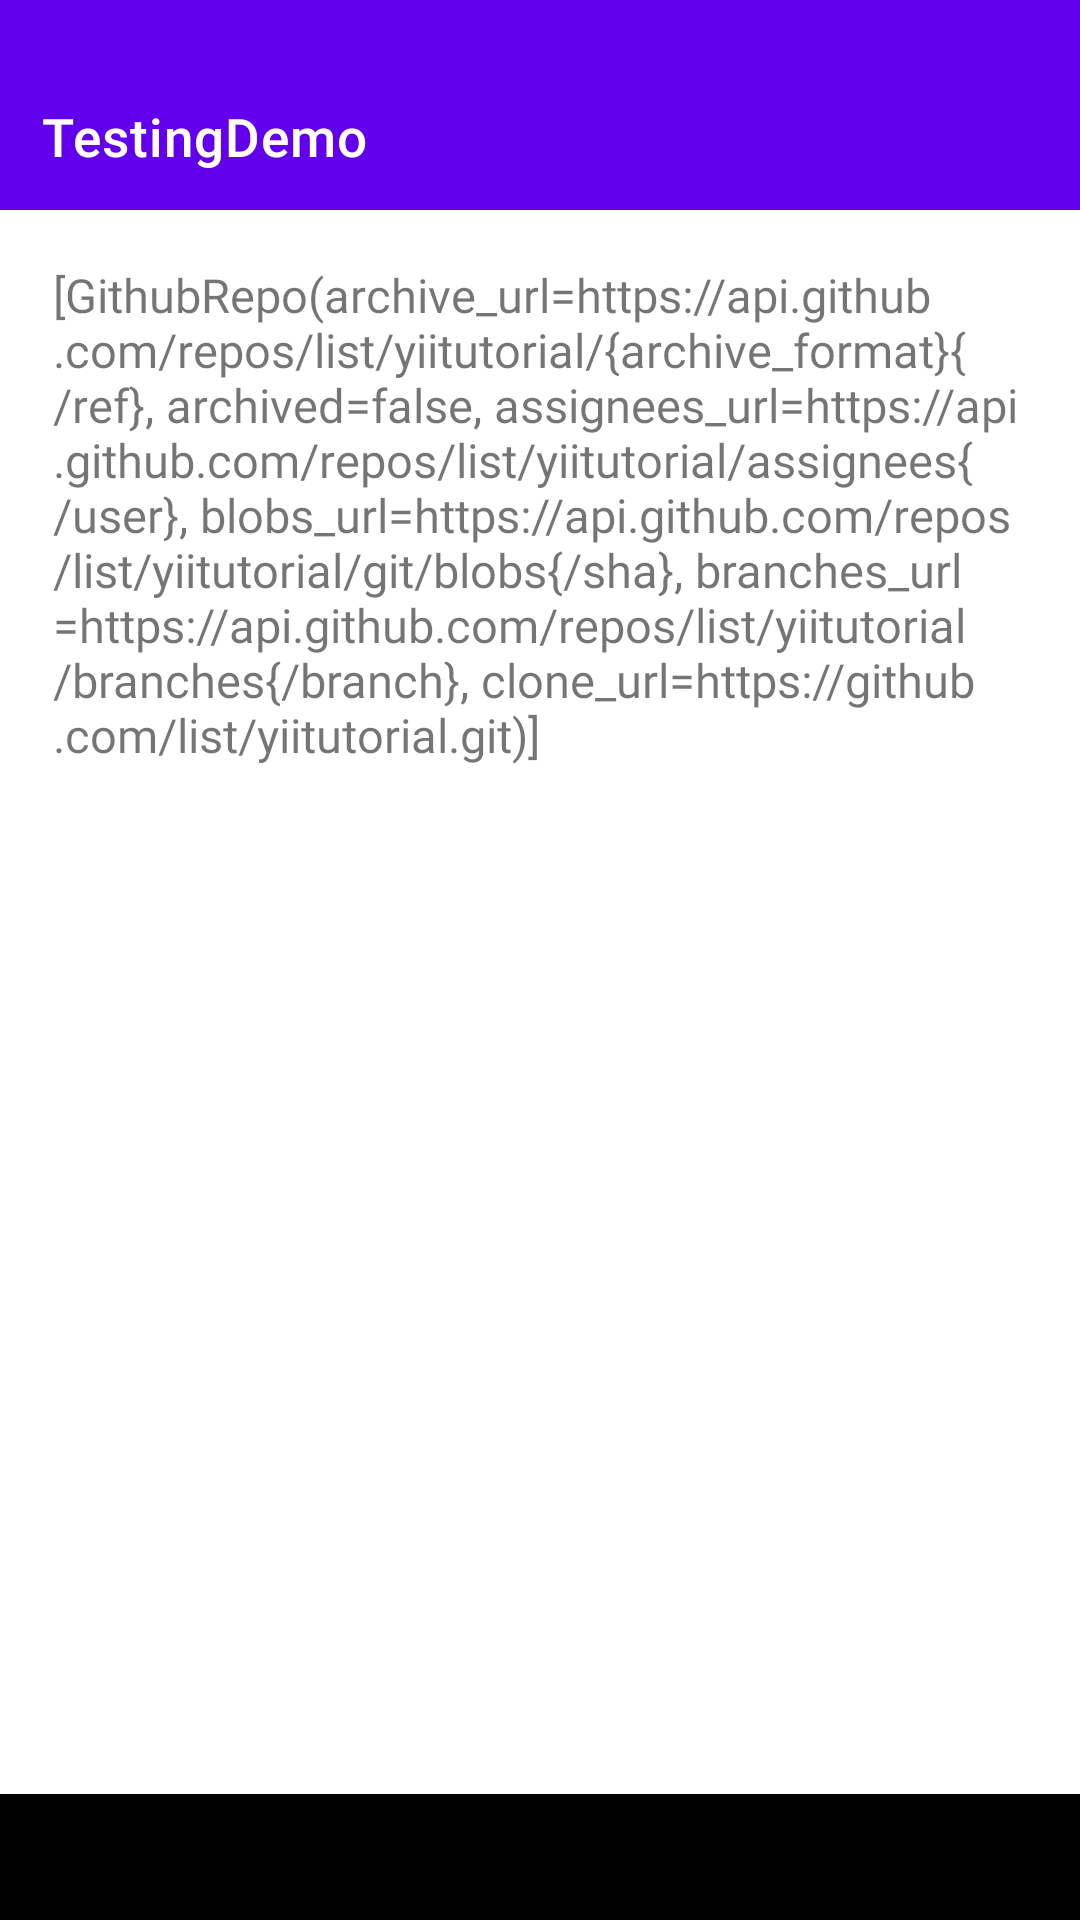
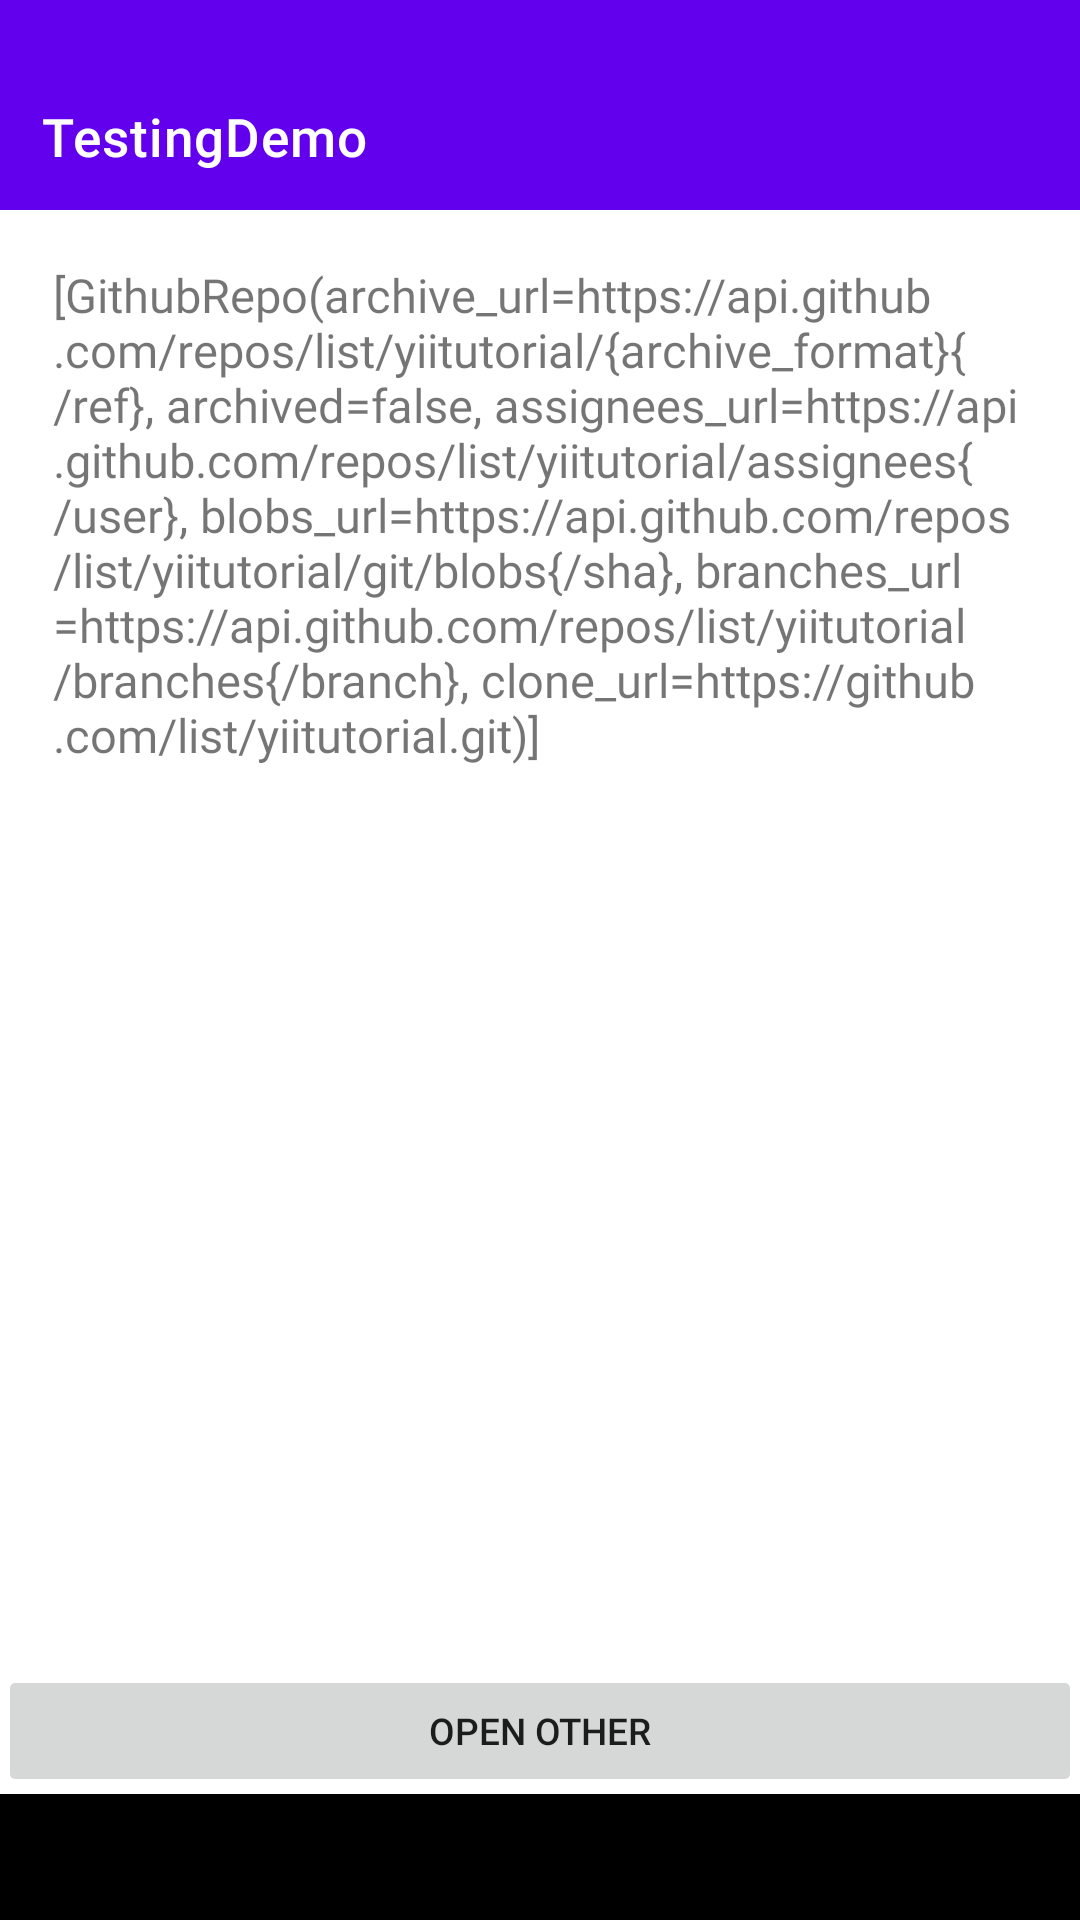
Add multi fragment testing in one activity

Changed region(s): [[0.0, 0.875, 1.0, 0.9375]]

diff --git a/app/src/androidTest/java/com/leevinapp/testingdemo/ui/OtherFragmentTest.kt b/app/src/androidTest/java/com/leevinapp/testingdemo/ui/OtherFragmentTest.kt
@@ -1,13 +1,12 @@
 package com.leevinapp.testingdemo.ui
 
-import android.app.Activity
 import androidx.fragment.app.Fragment
 import androidx.fragment.app.FragmentActivity
 import androidx.test.core.app.ActivityScenario
 import androidx.test.espresso.Espresso
+import androidx.test.espresso.action.ViewActions.click
 import androidx.test.espresso.assertion.ViewAssertions.matches
 import androidx.test.espresso.matcher.ViewMatchers
-import androidx.test.espresso.matcher.ViewMatchers.isCompletelyDisplayed
 import androidx.test.espresso.matcher.ViewMatchers.isDisplayed
 import androidx.test.espresso.matcher.ViewMatchers.withId
 import androidx.test.espresso.matcher.ViewMatchers.withText
@@ -15,12 +14,11 @@ import androidx.test.ext.junit.runners.AndroidJUnit4
 import com.facebook.testing.screenshot.Screenshot
 import com.leevinapp.testingdemo.R
 import com.leevinapp.testingdemo.utils.ResourceFile
-import com.leevinapp.testingdemo.utils.ViewIdlingResource
+import com.leevinapp.testingdemo.utils.withIndex
 import okhttp3.mockwebserver.Dispatcher
 import okhttp3.mockwebserver.MockResponse
 import okhttp3.mockwebserver.MockWebServer
 import okhttp3.mockwebserver.RecordedRequest
-import org.hamcrest.Matchers.allOf
 import org.hamcrest.Matchers.not
 import org.junit.After
 import org.junit.Before
@@ -29,11 +27,11 @@ import org.junit.runner.RunWith
 import java.util.concurrent.TimeUnit
 
 @RunWith(AndroidJUnit4::class)
-class MainFragmentTest {
+class OtherFragmentTest {
 
     private val mockWebServer = MockWebServer()
 
-    private lateinit var activity: Activity
+    private lateinit var activity: FragmentActivity
 
     @Before
     fun setup() {
@@ -58,17 +56,20 @@ class MainFragmentTest {
         ActivityScenario.launch(MainActivity::class.java).onActivity {
             this.activity = it
         }
-        ViewIdlingResource.waitUntilIdleMatcherIsFulfilled(withId(R.id.textviewSuccess), isDisplayed())
+        // TODO: 2021/9/20 how to decouple the otherFragment test 
+        Espresso.onView(withId(R.id.buttonOther)).perform(click())
 
-        Espresso.onView(withId(R.id.progress_bar))
+//        ViewIdlingResource.waitUntilIdleMatcherIsFulfilled(withIndex(withId(R.id.textviewSuccess),1), isDisplayed())
+
+        Espresso.onView(withIndex(withId(R.id.progress_bar), 1))
             .check(matches(not(isDisplayed())))
-        Espresso.onView(withId(R.id.textviewSuccess))
+        Espresso.onView(withIndex(withId(R.id.textviewSuccess), 1))
             .check(matches(isDisplayed()))
-        Espresso.onView(withId(R.id.textview))
+        Espresso.onView(withIndex(withId(R.id.textview), 1))
             .check(matches(not(isDisplayed())))
 
         Screenshot.snapActivity(activity)
-            .setName("Success_Page")
+            .setName("Other_Success_Page")
             .record()
     }
 
@@ -78,17 +79,19 @@ class MainFragmentTest {
             this.activity = it
         }
 
-        Espresso.onView(withId(R.id.progress_bar))
+        Espresso.onView(withId(R.id.buttonOther)).perform(click())
+
+        Espresso.onView(withIndex(withId(R.id.progress_bar), 1))
             .check(matches(isDisplayed()))
-        Espresso.onView(withId(R.id.textviewSuccess))
+        Espresso.onView(withIndex(withId(R.id.textviewSuccess), 1))
             .check(matches(not(isDisplayed())))
-        Espresso.onView(withId(R.id.textview))
+        Espresso.onView(withIndex(withId(R.id.textview), 1))
             .check(matches(not(isDisplayed())))
-        Espresso.onView(withId(R.id.textview))
+        Espresso.onView(withIndex(withId(R.id.textview), 1))
             .check(matches(not(isDisplayed())))
 
         Screenshot.snapActivity(activity)
-            .setName("Loading_View")
+            .setName("Other_Loading_View")
             .record()
     }
 
@@ -104,19 +107,20 @@ class MainFragmentTest {
             this.activity = it
         }
 
-        ViewIdlingResource.waitUntilIdleMatcherIsFulfilled(allOf(withId(R.id.textview), withText(R.string.error_message)), isDisplayed())
+        Espresso.onView(withId(R.id.buttonOther)).perform(click())
+//        ViewIdlingResource.waitUntilIdleMatcherIsFulfilled(allOf(withId(R.id.textview), withText(R.string.error_message)), isDisplayed())
 
-        Espresso.onView(withId(R.id.progress_bar))
+        Espresso.onView(withIndex(withId(R.id.progress_bar), 1))
             .check(matches(not(isDisplayed())))
-        Espresso.onView(withId(R.id.textviewSuccess))
+        Espresso.onView(withIndex(withId(R.id.textviewSuccess), 1))
             .check(matches(not(isDisplayed())))
-        Espresso.onView(withId(R.id.textview))
+        Espresso.onView(withIndex(withId(R.id.textview), 1))
             .check(matches(isDisplayed()))
-        Espresso.onView(withId(R.id.textview))
+        Espresso.onView(withIndex(withId(R.id.textview), 1))
             .check(matches(withText(R.string.error_message)))
 
         Screenshot.snapActivity(activity)
-            .setName("Failed_Page")
+            .setName("Other_Failed_Page")
             .record()
     }
 
@@ -134,20 +138,22 @@ class MainFragmentTest {
         ActivityScenario.launch(MainActivity::class.java).onActivity {
             this.activity = it
         }
-        ViewIdlingResource.waitUntilIdleMatcherIsFulfilled(allOf(withId(R.id.textview), withText(R.string.no_data_message)), isCompletelyDisplayed())
+
+        Espresso.onView(withId(R.id.buttonOther)).perform(click())
+//        ViewIdlingResource.waitUntilIdleMatcherIsFulfilled(allOf(withId(R.id.textview), withText(R.string.no_data_message)), isCompletelyDisplayed())
 
         // Then
-        Espresso.onView(withId(R.id.progress_bar))
+        Espresso.onView(withIndex(withId(R.id.progress_bar), 1))
             .check(matches(ViewMatchers.withEffectiveVisibility(ViewMatchers.Visibility.GONE)))
-        Espresso.onView(withId(R.id.textviewSuccess))
+        Espresso.onView(withIndex(withId(R.id.textviewSuccess), 1))
             .check(matches(ViewMatchers.withEffectiveVisibility(ViewMatchers.Visibility.GONE)))
-        Espresso.onView(withId(R.id.textview))
+        Espresso.onView(withIndex(withId(R.id.textview), 1))
             .check(matches(ViewMatchers.withEffectiveVisibility(ViewMatchers.Visibility.VISIBLE)))
-        Espresso.onView(withId(R.id.textview))
+        Espresso.onView(withIndex(withId(R.id.textview), 1))
             .check(matches(withText(R.string.no_data_message)))
 
         Screenshot.snapActivity(activity)
-            .setName("Empty_Page")
+            .setName("Other_Empty_Page")
             .record()
     }
 
@@ -158,6 +164,14 @@ class MainFragmentTest {
     fun FragmentActivity.replaceFragment(fragment: Fragment) {
         supportFragmentManager.beginTransaction()
             .replace(R.id.container, fragment, fragment::class.java.canonicalName)
-            .commitNow()
+
+        supportFragmentManager.executePendingTransactions()
+    }
+
+    fun FragmentActivity.addFragment(fragment: Fragment) {
+        supportFragmentManager.beginTransaction()
+            .add(R.id.container, fragment, fragment::class.java.canonicalName)
+        // immediately executing any such pending operations,
+        supportFragmentManager.executePendingTransactions()
     }
 }

diff --git a/app/src/main/java/com/leevinapp/testingdemo/ui/OtherFragment.kt b/app/src/main/java/com/leevinapp/testingdemo/ui/OtherFragment.kt
@@ -6,21 +6,21 @@ import android.os.Bundle
 import android.view.LayoutInflater
 import android.view.View
 import android.view.ViewGroup
+import androidx.fragment.app.Fragment
 import androidx.fragment.app.viewModels
 import androidx.lifecycle.Observer
 import com.leevinapp.testingdemo.R
 import com.leevinapp.testingdemo.common.Resource
 import com.leevinapp.testingdemo.common.ViewModelFactory
-import com.leevinapp.testingdemo.databinding.FragmentMainBinding
+import com.leevinapp.testingdemo.databinding.FragmentOtherBinding
 import com.leevinapp.testingdemo.repository.model.GithubRepo
 import dagger.android.support.AndroidSupportInjection
-import dagger.android.support.DaggerFragment
 import timber.log.Timber
 import javax.inject.Inject
 
-class MainFragment : DaggerFragment() {
+class OtherFragment : Fragment() {
 
-    private lateinit var binding: FragmentMainBinding
+    private lateinit var binding: FragmentOtherBinding
 
     @Inject
     lateinit var viewModelFactory: ViewModelFactory
@@ -30,12 +30,8 @@ class MainFragment : DaggerFragment() {
     private val viewModel: MainViewModel by viewModels { viewModelFactory }
 
     override fun onAttach(context: Context) {
-        super.onAttach(context)
-        /**
-         * compile error for params required fragment that is not from androidx libs when using AndroidSupportInjection
-         * Fixed by AndroidSupportInjection has migrate to androidx need implement dagger-android-support
-         */
         AndroidSupportInjection.inject(this)
+        super.onAttach(context)
     }
 
     override fun onCreateView(
@@ -43,7 +39,7 @@ class MainFragment : DaggerFragment() {
         container: ViewGroup?,
         savedInstanceState: Bundle?
     ): View {
-        binding = FragmentMainBinding.inflate(inflater, container, false)
+        binding = FragmentOtherBinding.inflate(inflater, container, false)
         return binding.root
     }
 
@@ -104,6 +100,6 @@ class MainFragment : DaggerFragment() {
     }
 
     companion object {
-        fun newInstance() = MainFragment()
+        fun newInstance() = OtherFragment()
     }
 }

diff --git a/app/src/androidTest/java/com/leevinapp/testingdemo/utils/MatchExtensions.kt b/app/src/androidTest/java/com/leevinapp/testingdemo/utils/MatchExtensions.kt
@@ -1,0 +1,24 @@
+package com.leevinapp.testingdemo.utils
+
+import android.view.View
+import org.hamcrest.Description
+import org.hamcrest.Matcher
+import org.hamcrest.TypeSafeMatcher
+
+/**
+ *  To fix matches multiple views in the hierarchy
+ */
+fun withIndex(matcher: Matcher<View>, index: Int): Matcher<View> {
+    return object : TypeSafeMatcher<View>() {
+        var currentIndex = 0
+        override fun describeTo(description: Description) {
+            description.appendText("with index: ")
+            description.appendValue(index)
+            matcher.describeTo(description)
+        }
+
+        override fun matchesSafely(view: View): Boolean {
+            return matcher.matches(view) && currentIndex++ == index
+        }
+    }
+}

diff --git a/app/src/debug/java/com/leevinapp/testingdemo/ui/TestActivity.kt b/app/src/debug/java/com/leevinapp/testingdemo/ui/TestActivity.kt
@@ -1,0 +1,24 @@
+package com.leevinapp.testingdemo
+
+import android.os.Bundle
+import androidx.appcompat.app.AppCompatActivity
+import dagger.android.AndroidInjection
+import dagger.android.AndroidInjector
+import dagger.android.DispatchingAndroidInjector
+import dagger.android.HasAndroidInjector
+import javax.inject.Inject
+
+class TestActivity : AppCompatActivity(), HasAndroidInjector {
+
+    @Inject
+    lateinit var androidInjector: DispatchingAndroidInjector<Any>
+
+    override fun onCreate(savedInstanceState: Bundle?) {
+        AndroidInjection.inject(this)
+        super.onCreate(savedInstanceState)
+    }
+
+    override fun androidInjector(): AndroidInjector<Any> {
+        return androidInjector
+    }
+}

diff --git a/app/src/main/java/com/leevinapp/testingdemo/ui/MainFragment.kt b/app/src/main/java/com/leevinapp/testingdemo/ui/MainFragment.kt
@@ -54,6 +54,14 @@ class MainFragment : DaggerFragment() {
         Timber.e("=====viewModelFactory=====$viewModelFactory")
         Timber.e("=====viewModel=====$viewModel")
         Timber.e("=====dialog=====$dialog")
+        // todo should navigation via activity
+        binding.buttonOther.setOnClickListener {
+            activity?.apply {
+                supportFragmentManager.beginTransaction()
+                    .add(R.id.container, OtherFragment.newInstance(), OtherFragment::class.java.canonicalName)
+                    .commit()
+            }
+        }
     }
 
     private fun initData() {

diff --git a/app/src/main/java/com/leevinapp/testingdemo/common/ViewModelFactory.kt b/app/src/main/java/com/leevinapp/testingdemo/common/ViewModelFactory.kt
@@ -2,13 +2,13 @@ package com.leevinapp.testingdemo.common
 
 import androidx.lifecycle.ViewModel
 import androidx.lifecycle.ViewModelProvider
-import com.leevinapp.testingdemo.di.scope.ActivityScope
 import dagger.MapKey
+import dagger.Reusable
 import javax.inject.Inject
 import javax.inject.Provider
 import kotlin.reflect.KClass
 
-@ActivityScope
+@Reusable
 class ViewModelFactory @Inject constructor(private val viewModels: MutableMap<Class<out ViewModel>, Provider<ViewModel>>) :
     ViewModelProvider.Factory {
     override fun <T : ViewModel> create(modelClass: Class<T>): T =

diff --git a/app/src/androidTest/java/com/leevinapp/testingdemo/di/TestBindActivityModule.kt b/app/src/androidTest/java/com/leevinapp/testingdemo/di/TestBindActivityModule.kt
@@ -1,0 +1,20 @@
+package com.leevinapp.testingdemo.di
+
+import com.leevinapp.testingdemo.TestActivity
+import com.leevinapp.testingdemo.di.scope.ActivityScope
+import dagger.Module
+import dagger.android.ContributesAndroidInjector
+
+@Module
+abstract class TestBindActivityModule {
+
+    @ActivityScope
+    @ContributesAndroidInjector(
+        modules = [
+            ViewModelModule::class,
+            TestActivityModule::class,
+            BindFragmentModule::class
+        ]
+    )
+    abstract fun bindTestActivity(): TestActivity
+}

diff --git a/app/src/androidTest/java/com/leevinapp/testingdemo/di/TestActivityModule.kt b/app/src/androidTest/java/com/leevinapp/testingdemo/di/TestActivityModule.kt
@@ -1,0 +1,18 @@
+package com.leevinapp.testingdemo.di
+
+import android.app.AlertDialog
+import android.app.Dialog
+import com.leevinapp.testingdemo.TestActivity
+import com.leevinapp.testingdemo.di.scope.ActivityScope
+import dagger.Module
+import dagger.Provides
+
+@Module
+class TestActivityModule {
+
+    @ActivityScope
+    @Provides
+    fun provideLoadingSpinnerDialog(activity: TestActivity): Dialog {
+        return AlertDialog.Builder(activity).setTitle("Loading").create()
+    }
+}

diff --git a/app/src/main/java/com/leevinapp/testingdemo/di/BindFragmentModule.kt b/app/src/main/java/com/leevinapp/testingdemo/di/BindFragmentModule.kt
@@ -1,6 +1,7 @@
 package com.leevinapp.testingdemo.di
 
 import com.leevinapp.testingdemo.ui.MainFragment
+import com.leevinapp.testingdemo.ui.OtherFragment
 import dagger.Module
 import dagger.android.ContributesAndroidInjector
 
@@ -9,4 +10,7 @@ abstract class BindFragmentModule {
 
     @ContributesAndroidInjector
     abstract fun bindMainFragment(): MainFragment
+
+    @ContributesAndroidInjector
+    abstract fun bindOtherFragment(): OtherFragment
 }
